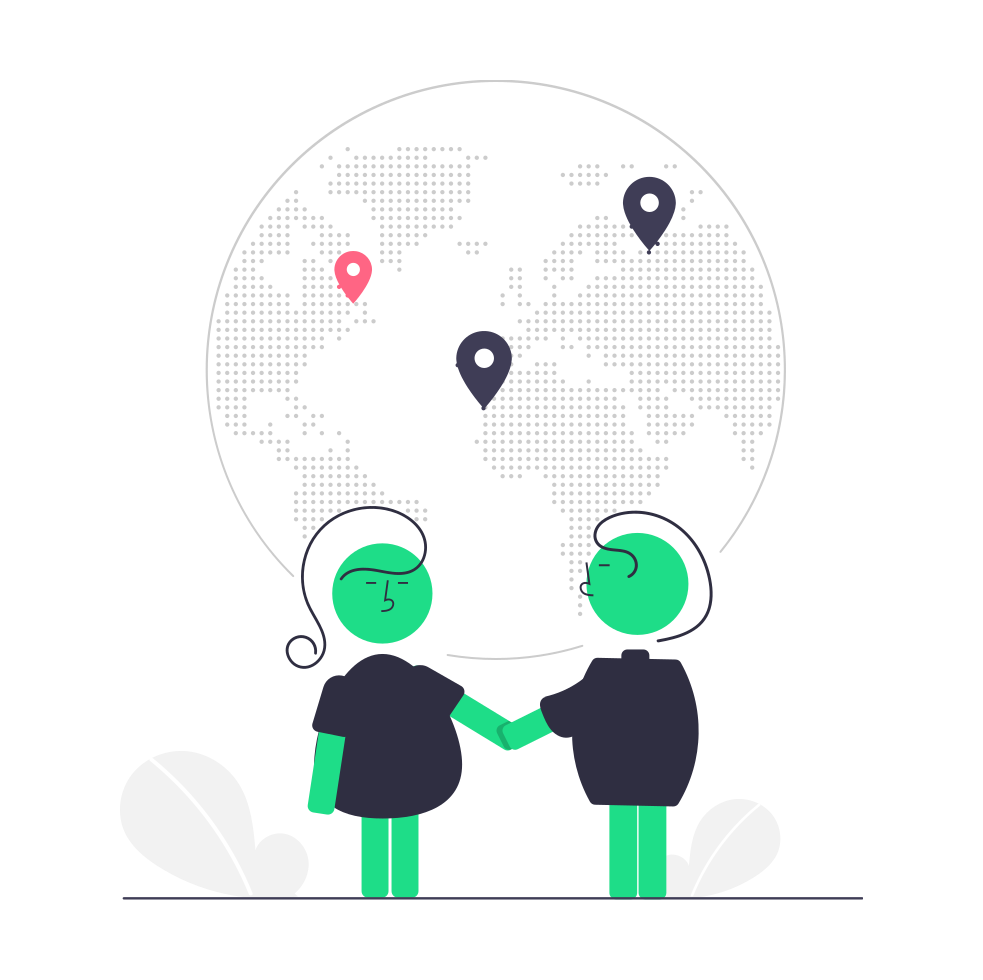
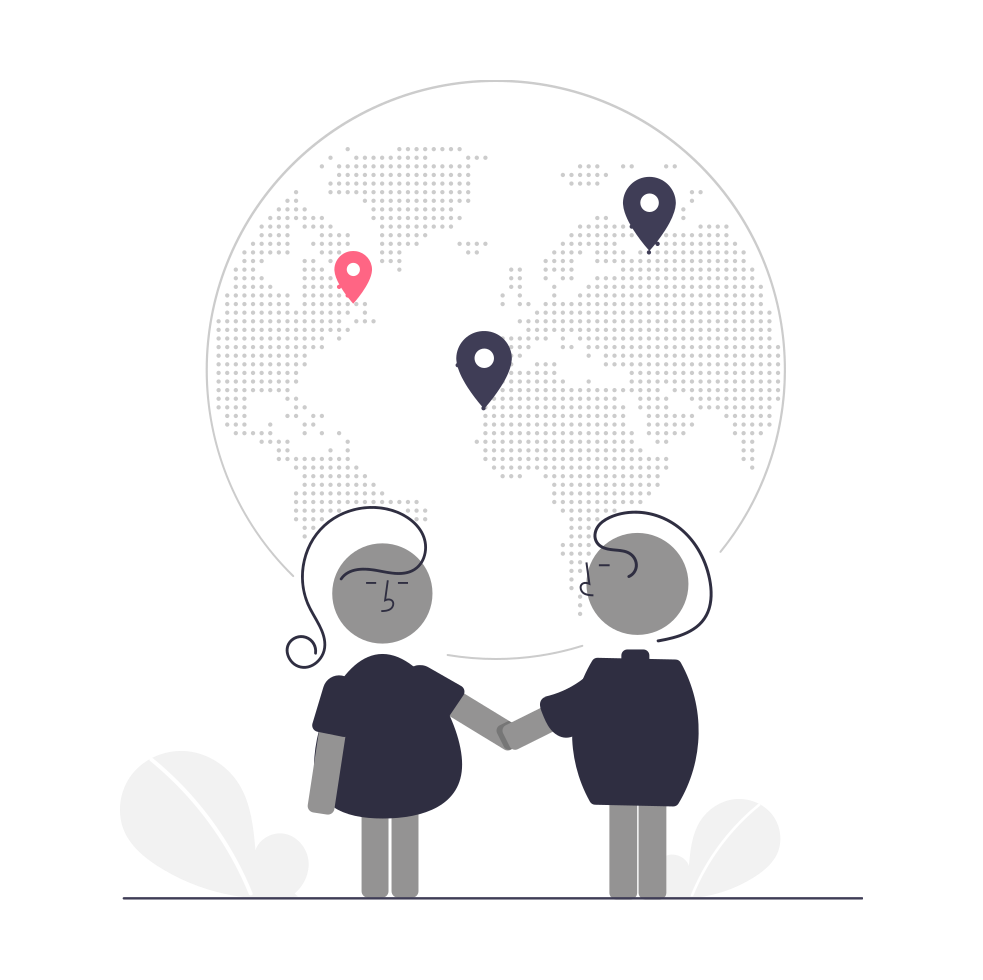
clean de la home page, manque la box shadow sur la navbar !!

diff --git a/app/assets/stylesheets/config/_fonts.scss b/app/assets/stylesheets/config/_fonts.scss
@@ -1,12 +1,11 @@
 // Import Google fonts
-@import url("https://fonts.googleapis.com/css?family=Nunito:400,700|Work+Sans:400,700&display=swap");
 @import url("https://fonts.googleapis.com/css2?family=Ovo&family=Raleway:ital,wght@0,400;0,700;1,400;1,700&display=swap");
-@import url("https://fonts.googleapis.com/css2?family=Roboto:ital,wght@0,400;0,700;1,400&display=swap");
+@import url('https://fonts.googleapis.com/css2?family=Roboto:ital,wght@0,100;0,300;0,400;1,100;1,300;1,400&display=swap');
 // Define fonts for body and headers
 // $body-font: "Work Sans", "Helvetica", "sans-serif";
 // $headers-font: "Nunito", "Helvetica", "sans-serif";
-$headers-font: "Roboto", "Helvetica", "sans-serif";
-$body-font: "Raleway", "Helvetica", "sans-serif";
+$headers-font: "Roboto", "sans-serif";
+$body-font: "Raleway", "sans-serif";
 
 // To use a font file (.woff) uncomment following lines
 // @font-face {

diff --git a/app/assets/stylesheets/config/_colors.scss b/app/assets/stylesheets/config/_colors.scss
@@ -6,7 +6,7 @@ $blue: #167ffb;
 $yellow: #ffc65a;
 $orange: #e67e22;
 $green: #1edd88;
-$gray: #0e0000;
+$gray: #333333;
 $light-gray: #f7f7f7;
 $color1: #f7e9c9;
 $color2: #43aa44;

diff --git a/app/assets/stylesheets/pages/_home.scss b/app/assets/stylesheets/pages/_home.scss
@@ -20,5 +20,5 @@
 }
 
 .image-home {
-  height: 250px;
+  height: 150px;
 }
